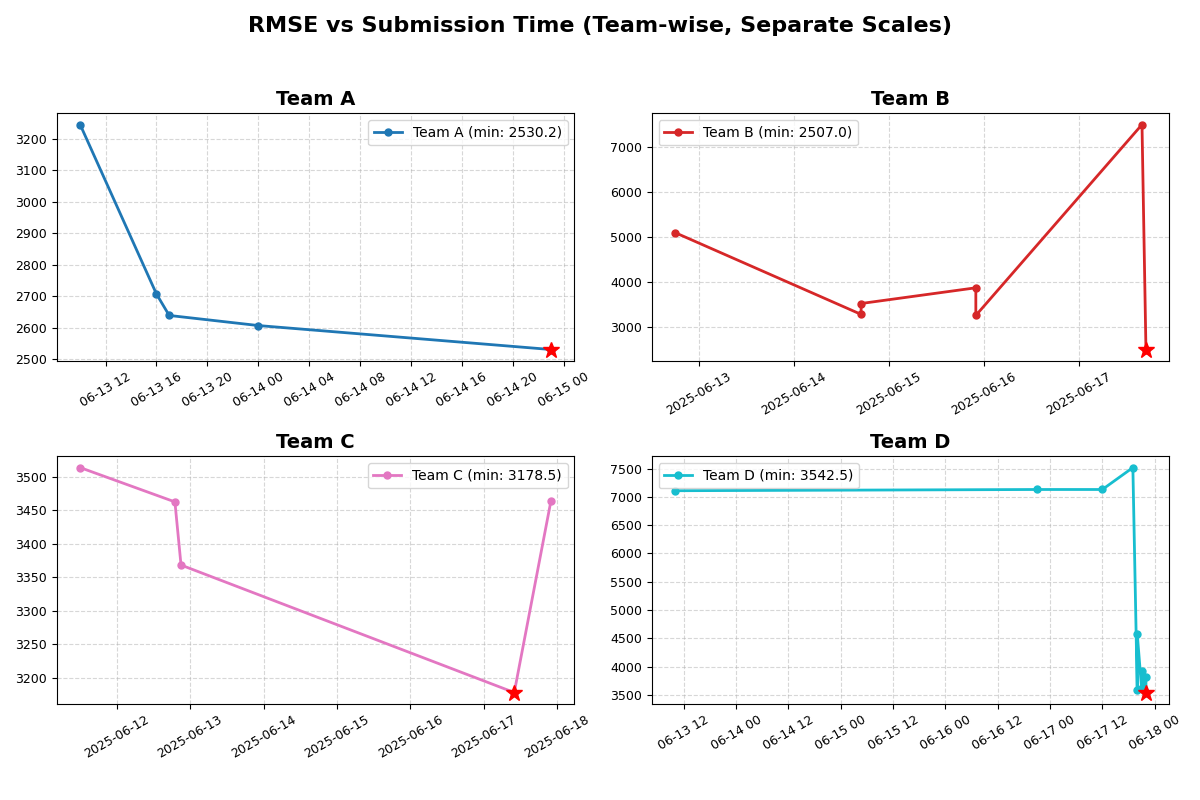
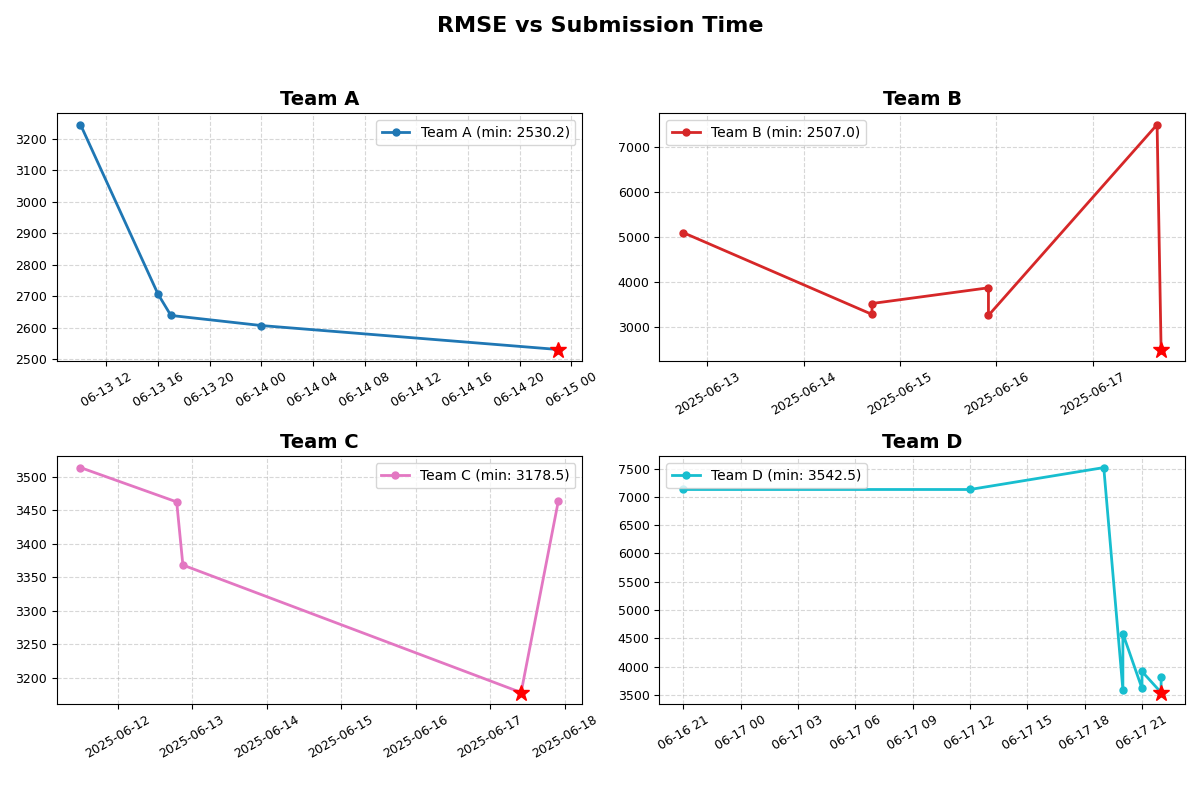
Ranking updated — 2025-06-18

diff --git a/README.md b/README.md
@@ -9,7 +9,7 @@
 | 4    | 팀 D    | 3542.526 |
 
 > 🔁 가장 최근 제출 중 **가장 낮은 RMSE**만 기록됩니다.
-> ⏱ 마지막 업데이트: 2025-06-18 00:08 (KST)
+> ⏱ 마지막 업데이트: 2025-06-18 00:10 (KST)
 ![RMSE Submission Graph](rmse_submission.png)
 
 ---
